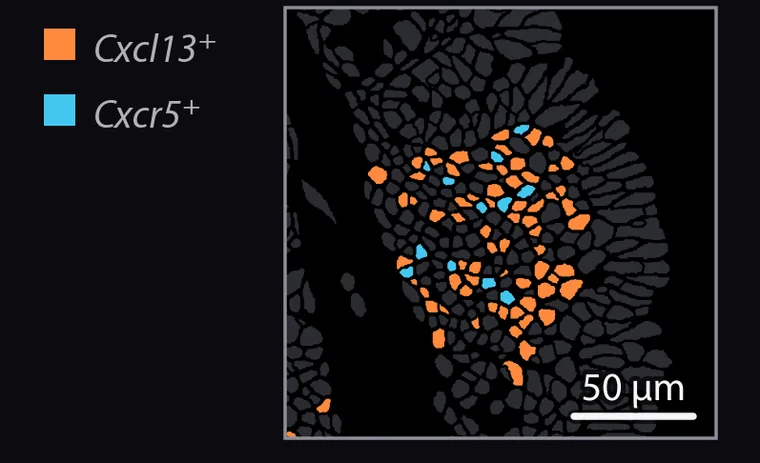
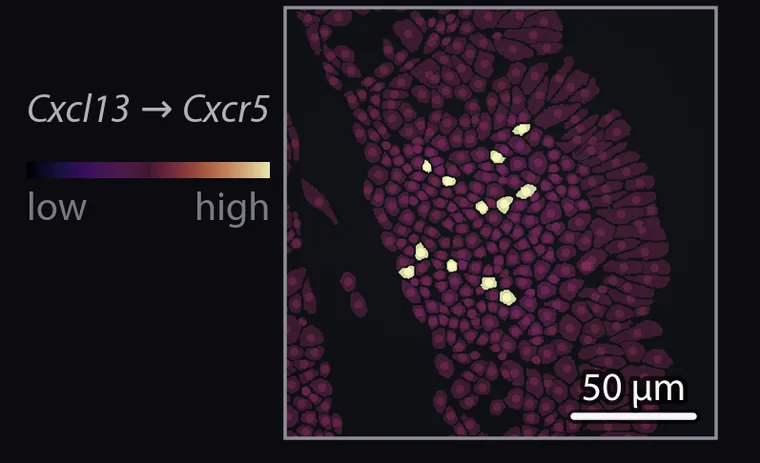
Analyses: the ligand-receptor tile is Cell Communication, in Magma
The app's ligand-receptor tab is now called Cell Communication and draws
its maps with the Genes tab's colormaps, Magma by default (app main
af95b07). The tile takes the tab's name, and its picture is the tab's
own map: Cxcl13 -> Cxcr5 on the colon section, Co-variation, Magma, cell
boundaries filled, captured from the running app over the same 180 um
field the old crop of Fig. 1b showed. It keeps the old tile's frame,
50 um scale bar, size (760 x 463) and WebP settings; the key now names
the pair and shows the map's scale, low to high, and sits lower than the
old one so the page's corner marks stay clear of it at every width.
The alt text describes the new map.

diff --git a/index.html b/index.html
@@ -337,8 +337,8 @@
             <figcaption class="wk-tile__cap"><span class="wk-tile__text"><strong>Spatial statistics</strong> Moran’s I, with <span class="nw">closed-form</span> nulls.</span></figcaption>
           </figure>
           <figure class="wk-tile wk-tile--fig wk-tile--panel">
-            <div class="wk-tile__media"><img src="assets/media/ana-lr.webp" width="760" height="463" loading="lazy" decoding="async" alt="Cxcl13-positive and Cxcr5-positive cells where they meet in the colon section"></div>
-            <figcaption class="wk-tile__cap"><span class="wk-tile__text"><strong>Ligand–receptor</strong> Runs <span translate="no">LIANA+</span>, optimised to be 20× faster.</span></figcaption>
+            <div class="wk-tile__media"><img src="assets/media/ana-lr.webp" width="760" height="463" loading="lazy" decoding="async" alt="The Cell Communication map of Cxcl13 → Cxcr5 on the colon section, in Magma: Cxcr5 cells with Cxcl13 cells around them light up in a lymphoid aggregate"></div>
+            <figcaption class="wk-tile__cap"><span class="wk-tile__text"><strong>Cell Communication</strong> Runs <span translate="no">LIANA+</span>, optimised to be 20× faster.</span></figcaption>
           </figure>
         </div>
       </div>
